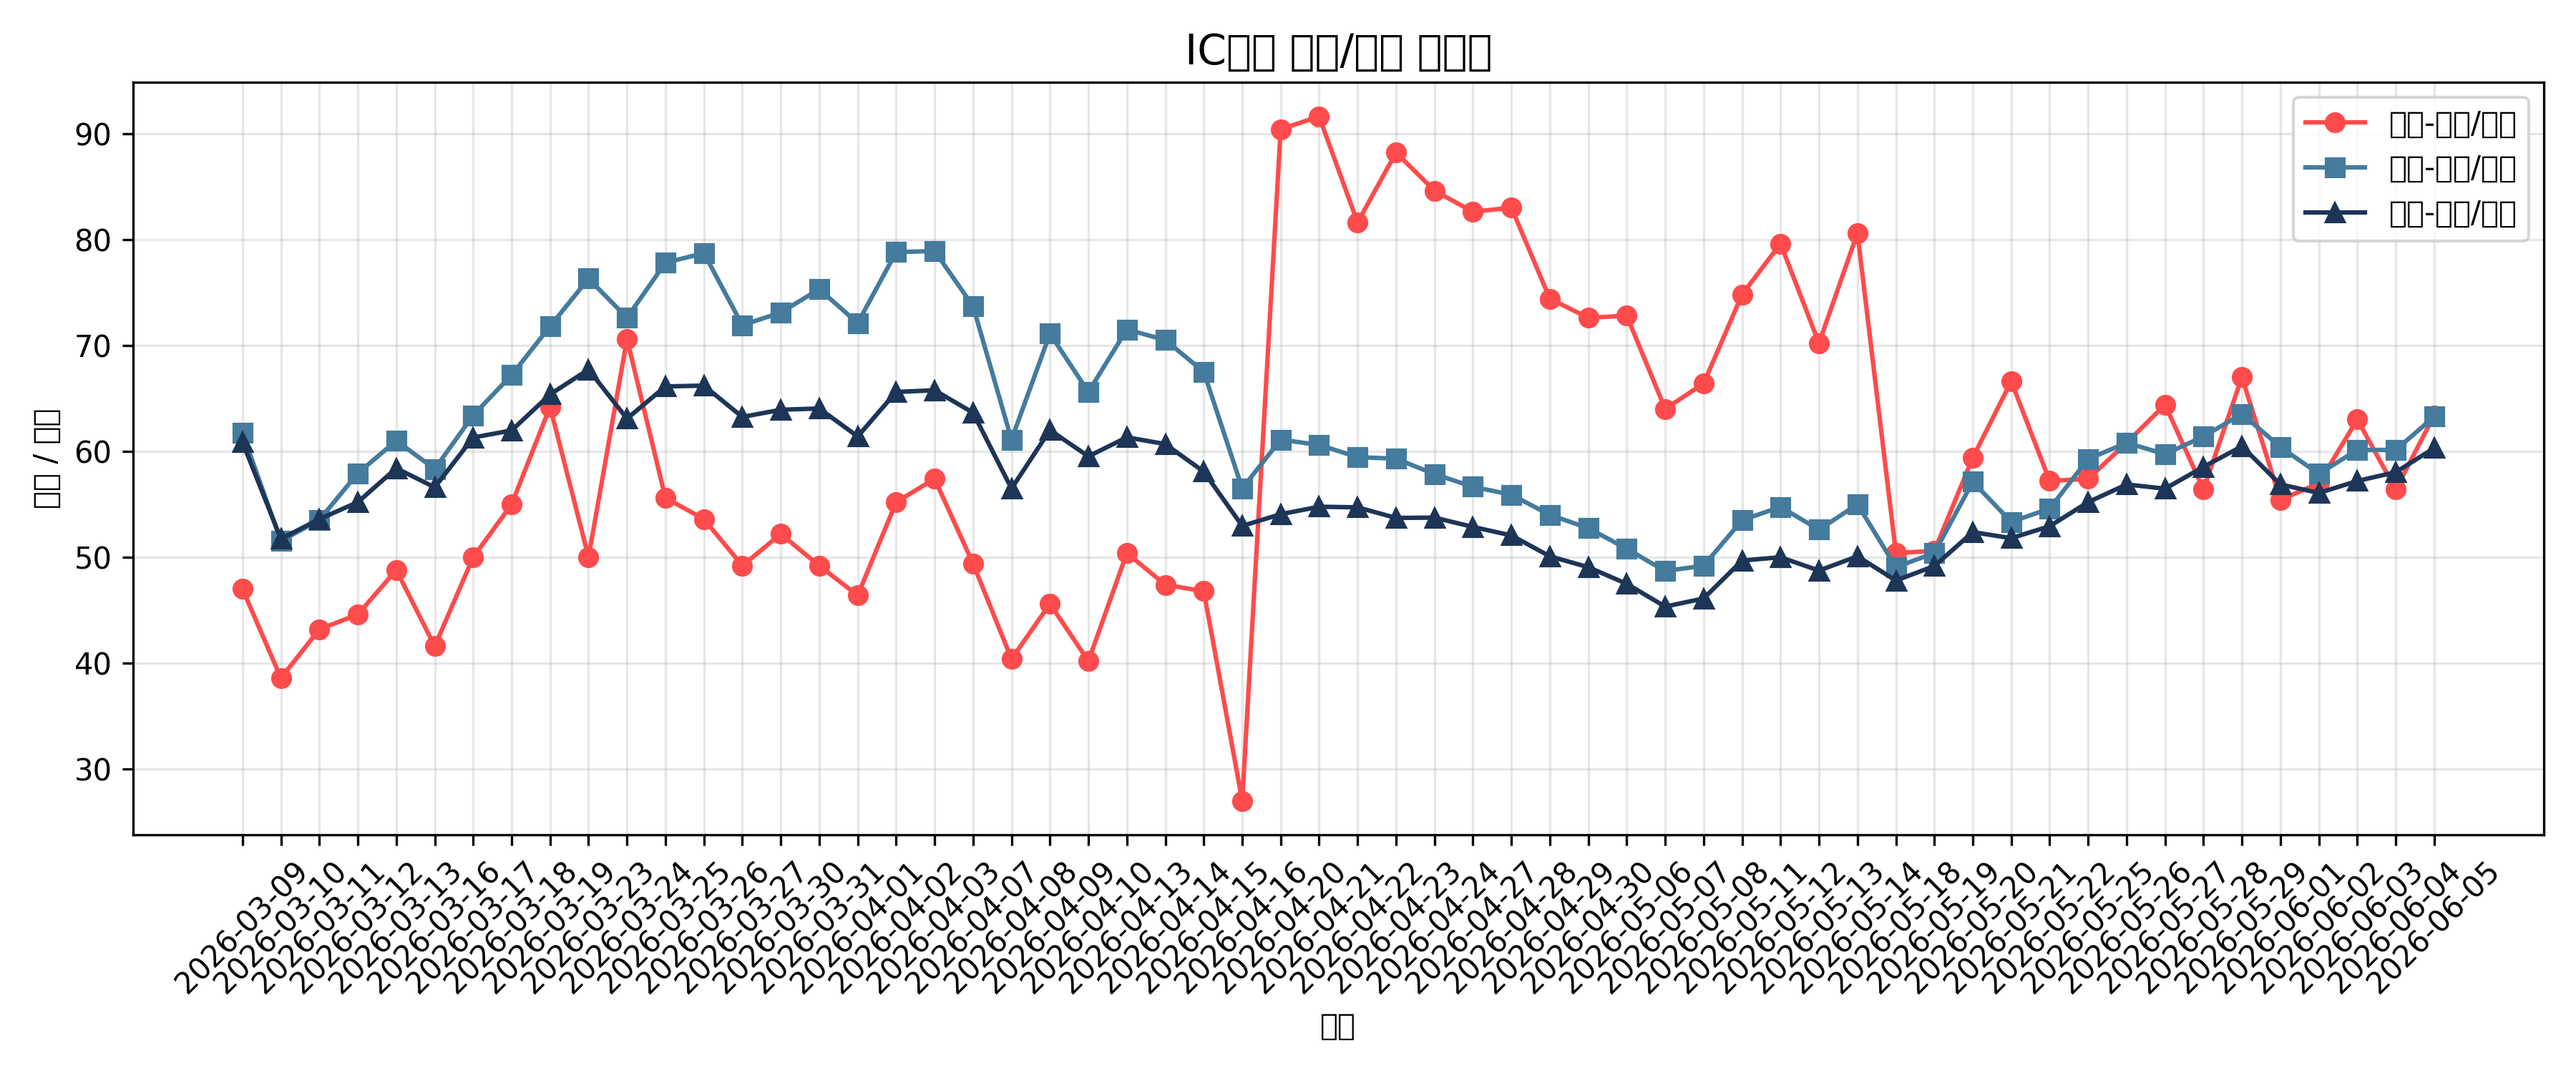
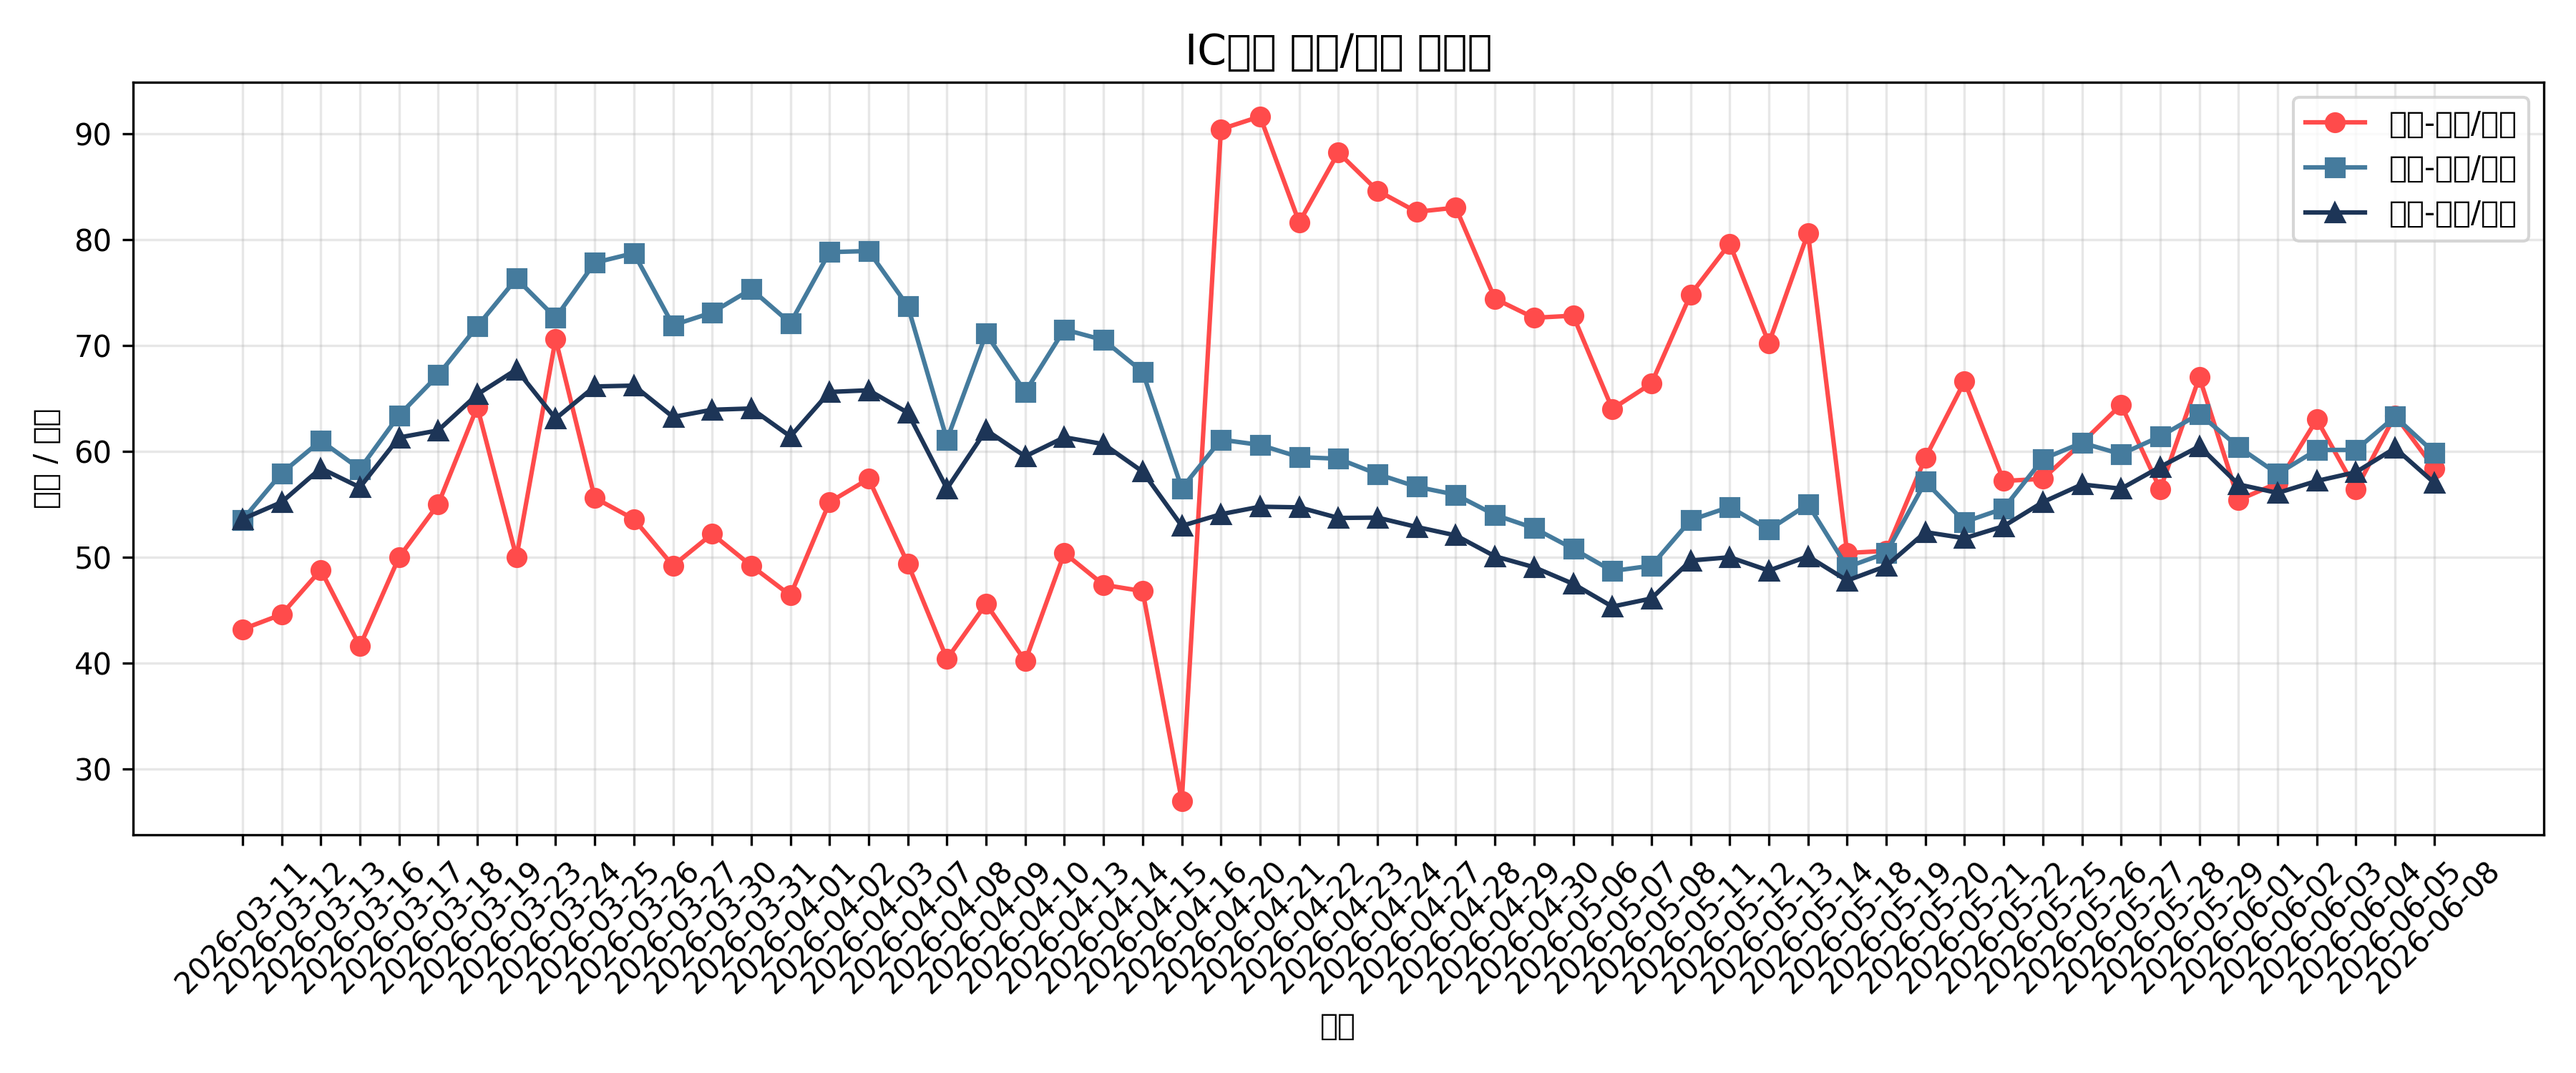
deploy: 4d1bb30b7b0bf8623cc214497fc979b4192c654b

Changed region(s): [[0.0933, 0.092, 0.9644, 0.7667], [0.0933, 0.7973, 0.9644, 0.92], [0.56, 0.2147, 0.7467, 0.3987]]

diff --git a/index.html b/index.html
@@ -84,19 +84,19 @@
 <body>
     <div class="container">
         <h1>IC期货基差监控</h1>
-        <div class="last-updated">最后更新：2026-06-05 19:48:17</div>
+        <div class="last-updated">最后更新：2026-06-08 20:52:21</div>
         
         <div class="stats">
             <div class="stat-card">
-                <div class="stat-value">63.4</div>
+                <div class="stat-value">58.4</div>
                 <div class="stat-label">当月-下月/月差</div>
             </div>
             <div class="stat-card">
-                <div class="stat-value">63.27</div>
+                <div class="stat-value">59.87</div>
                 <div class="stat-label">当月-当季/月差</div>
             </div>
             <div class="stat-card">
-                <div class="stat-value">60.3</div>
+                <div class="stat-value">57.03</div>
                 <div class="stat-label">当月-下季/月差</div>
             </div>
         </div>
@@ -114,14 +114,6 @@
                 <th>当月-下月/月差</th>
                 <th>当月-当季/月差</th>
                 <th>当月-下季/月差</th>
-            </tr>
-
-            <tr>
-                <td>2026-05-28</td>
-                <td>IC2606</td>
-                <td>56.4</td>
-                <td>61.4</td>
-                <td>58.53</td>
             </tr>
 
             <tr>
@@ -170,6 +162,14 @@
                 <td>63.4</td>
                 <td>63.27</td>
                 <td>60.3</td>
+            </tr>
+
+            <tr>
+                <td>2026-06-08</td>
+                <td>IC2606</td>
+                <td>58.4</td>
+                <td>59.87</td>
+                <td>57.03</td>
             </tr>
 
         </table>
